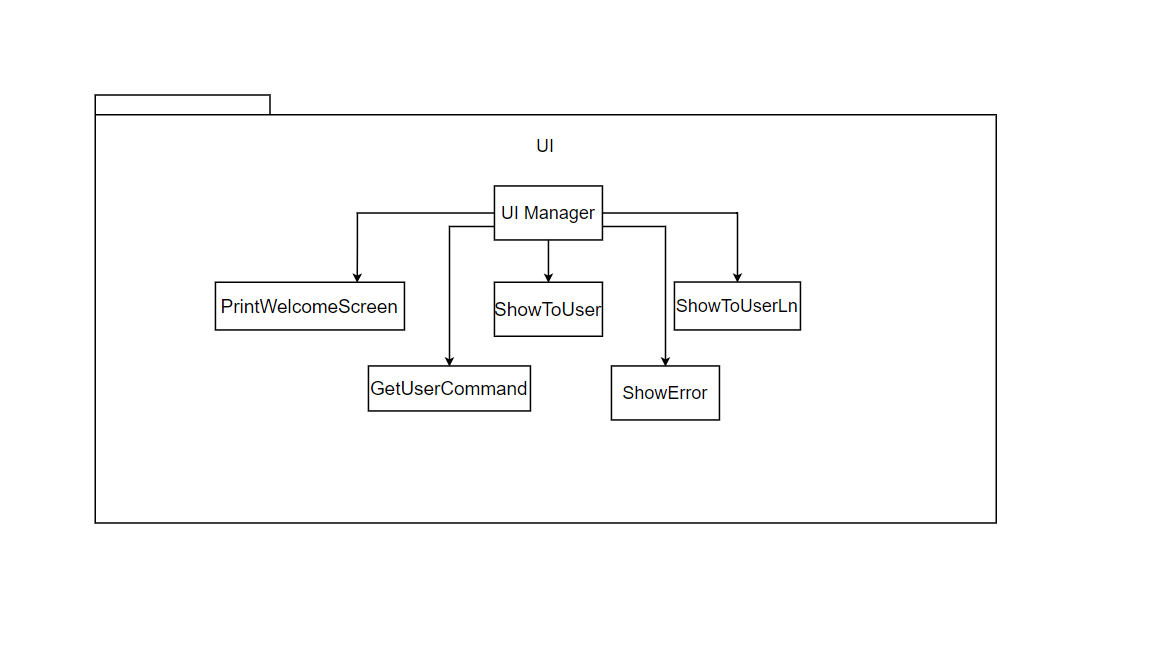
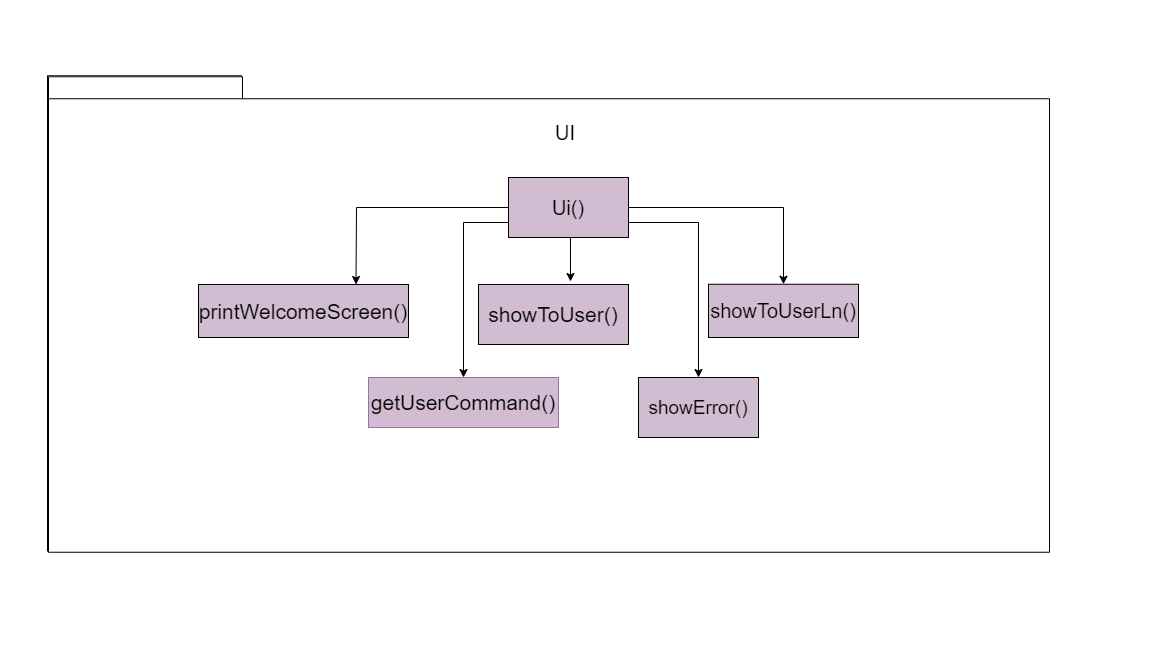
Fixed the UI part of DG

Changed region(s): [[0.1562, 0.1852, 0.75, 0.679], [0.0312, 0.0926, 0.25, 0.1852]]

diff --git a/docs/DeveloperGuide.md b/docs/DeveloperGuide.md
@@ -94,6 +94,16 @@ Each of the modules listed above are a collection of constituent classes, with e
 
 ### 3.2. UI Component
 ![Figure X: Simplified class diagram for UI Component](./image/developerguide/UI.png "User Interface")  
+The `UI` component contains the `Ui` and a few subclasses to print different types of messages.
+The `Ui` consist of:  
+&nbsp; &nbsp; &nbsp; &nbsp; 1. `printWelcomeScreen()`<br>
+&nbsp; &nbsp; &nbsp; &nbsp; 2. `getUserCommand()`<br>
+&nbsp; &nbsp; &nbsp; &nbsp; 3. `showToUser()`<br>
+&nbsp; &nbsp; &nbsp; &nbsp; 4. `showToUserLn()`<br>
+&nbsp; &nbsp; &nbsp; &nbsp; 5. `showError()`<br>
+
+The subclasses are called directly by other functions. For example, if `TaskCommand` wants to show an
+error message, it will call `Ui.showError(<error message>)` directly.
 
 ### 3.3. Logic Component
 The `Logic` component contains the `ParserManager` and its subclasses, and the `Command` class and its subclasses, which mainly handles the commands input by the user. 
